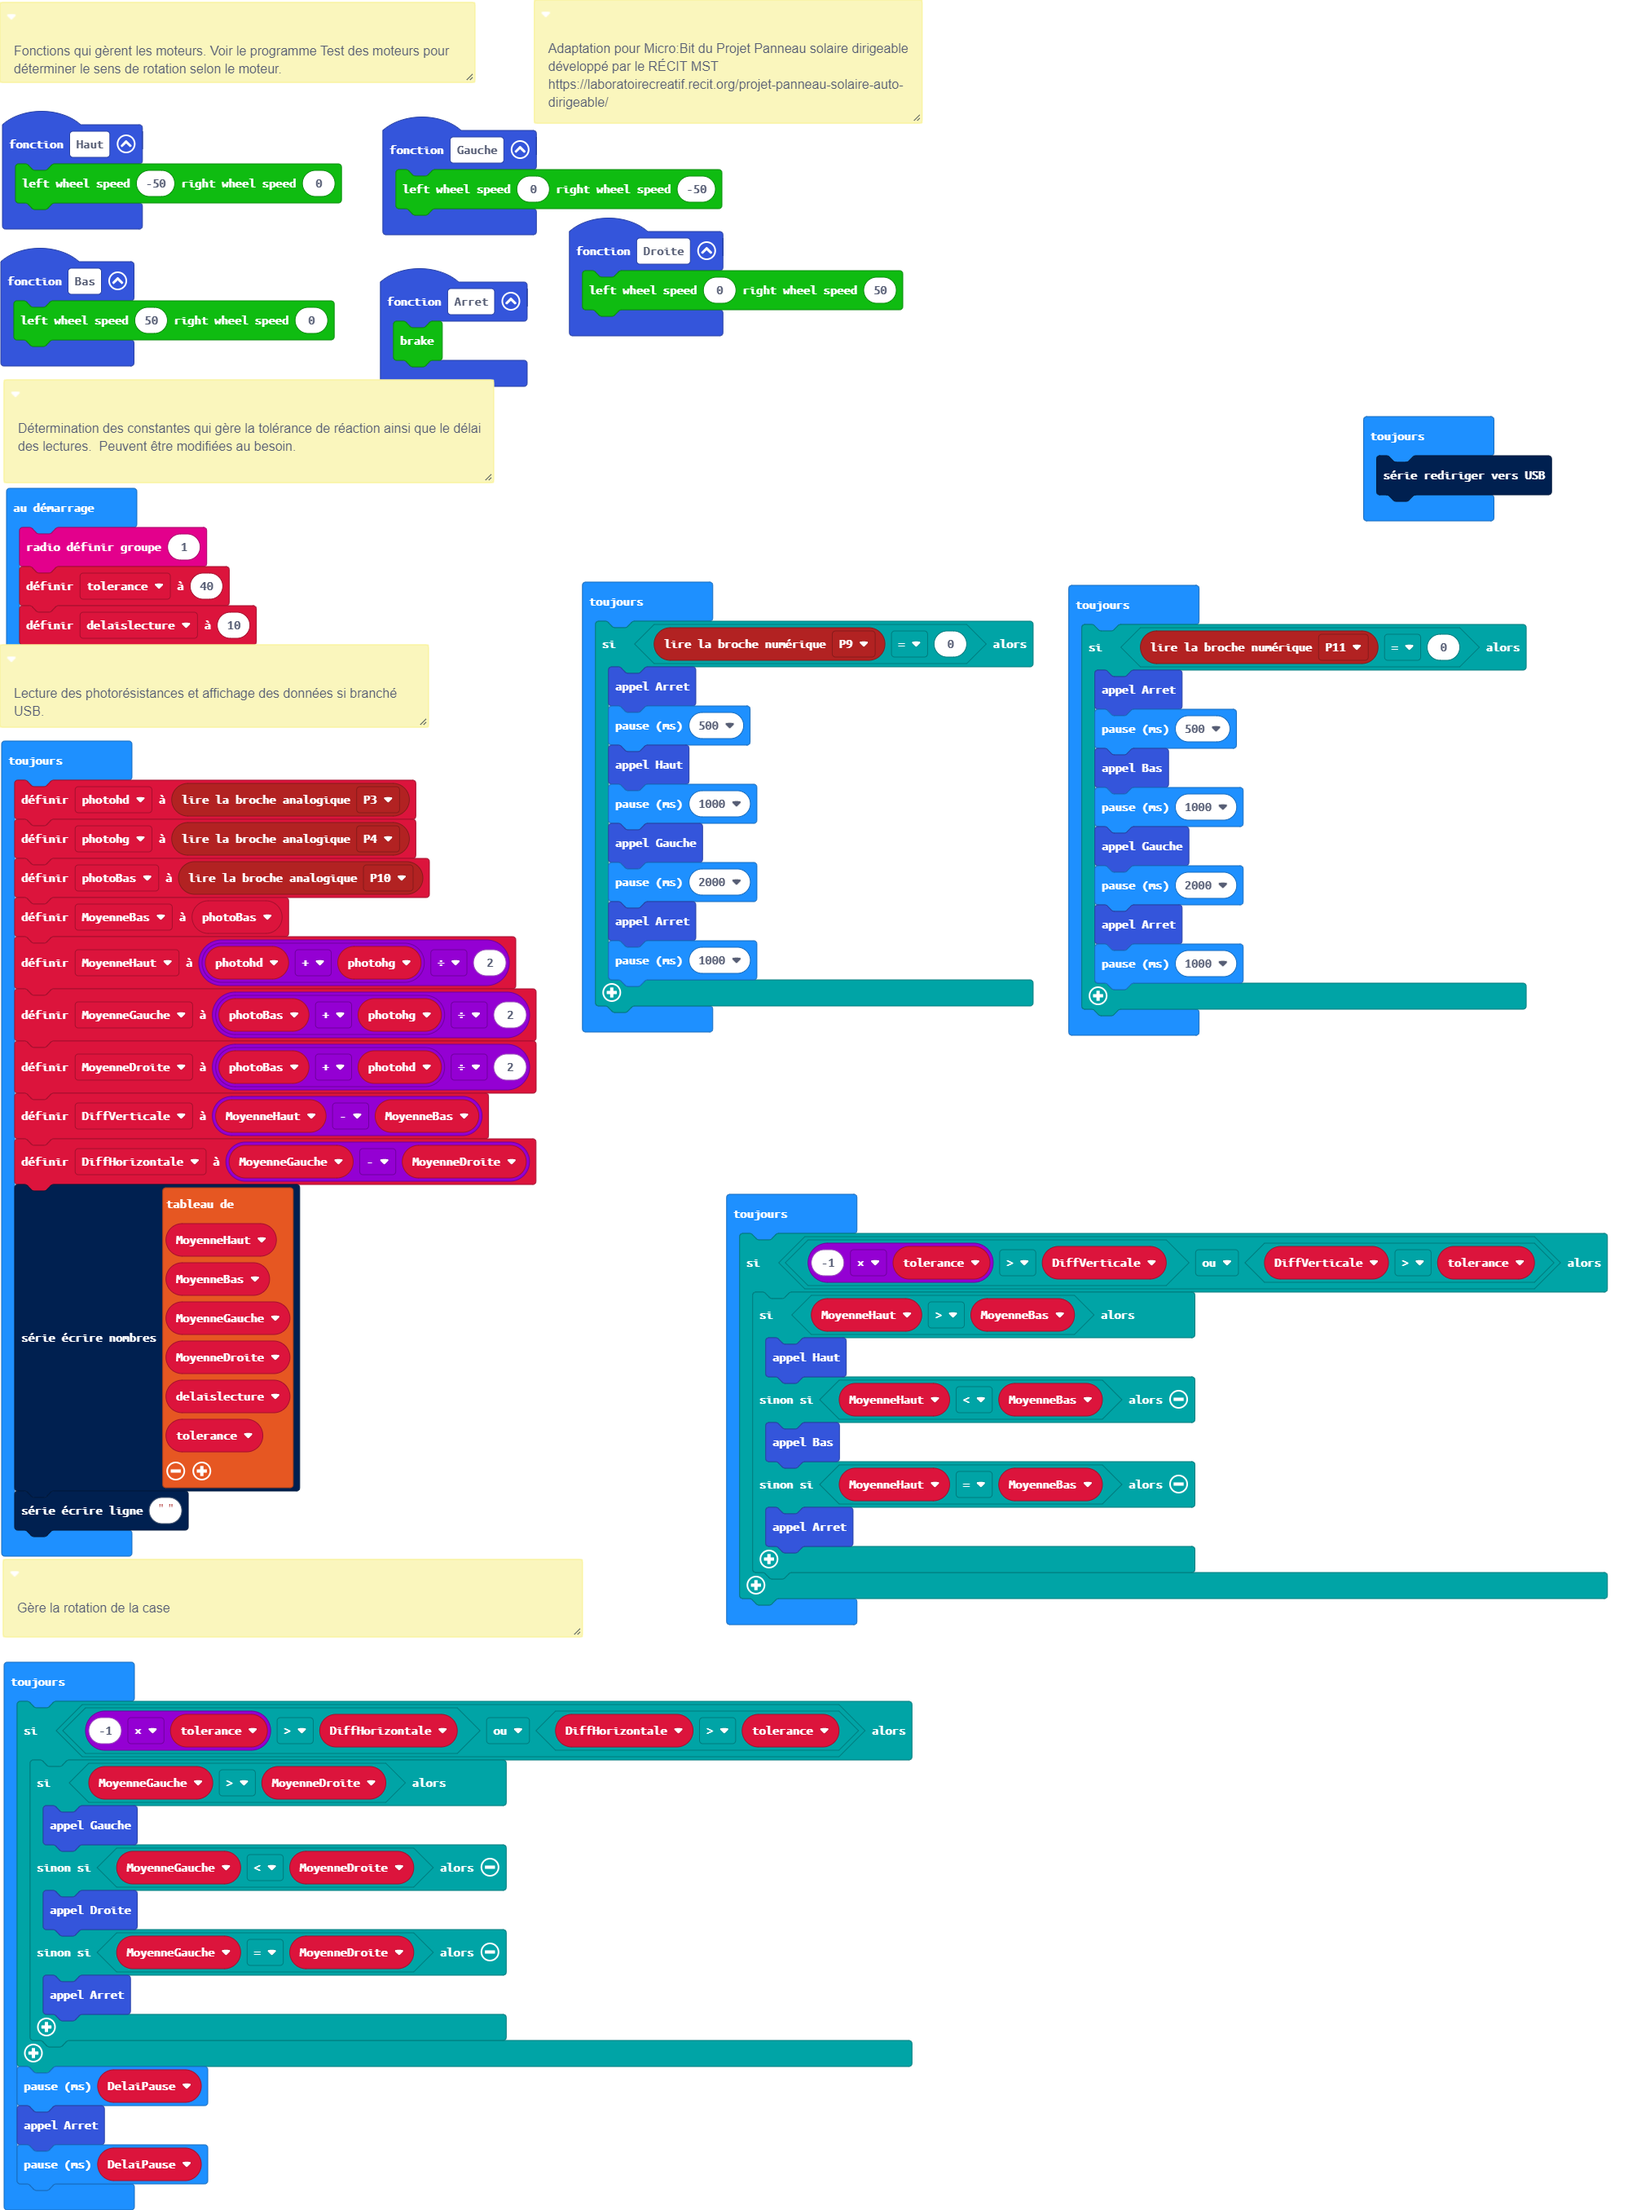
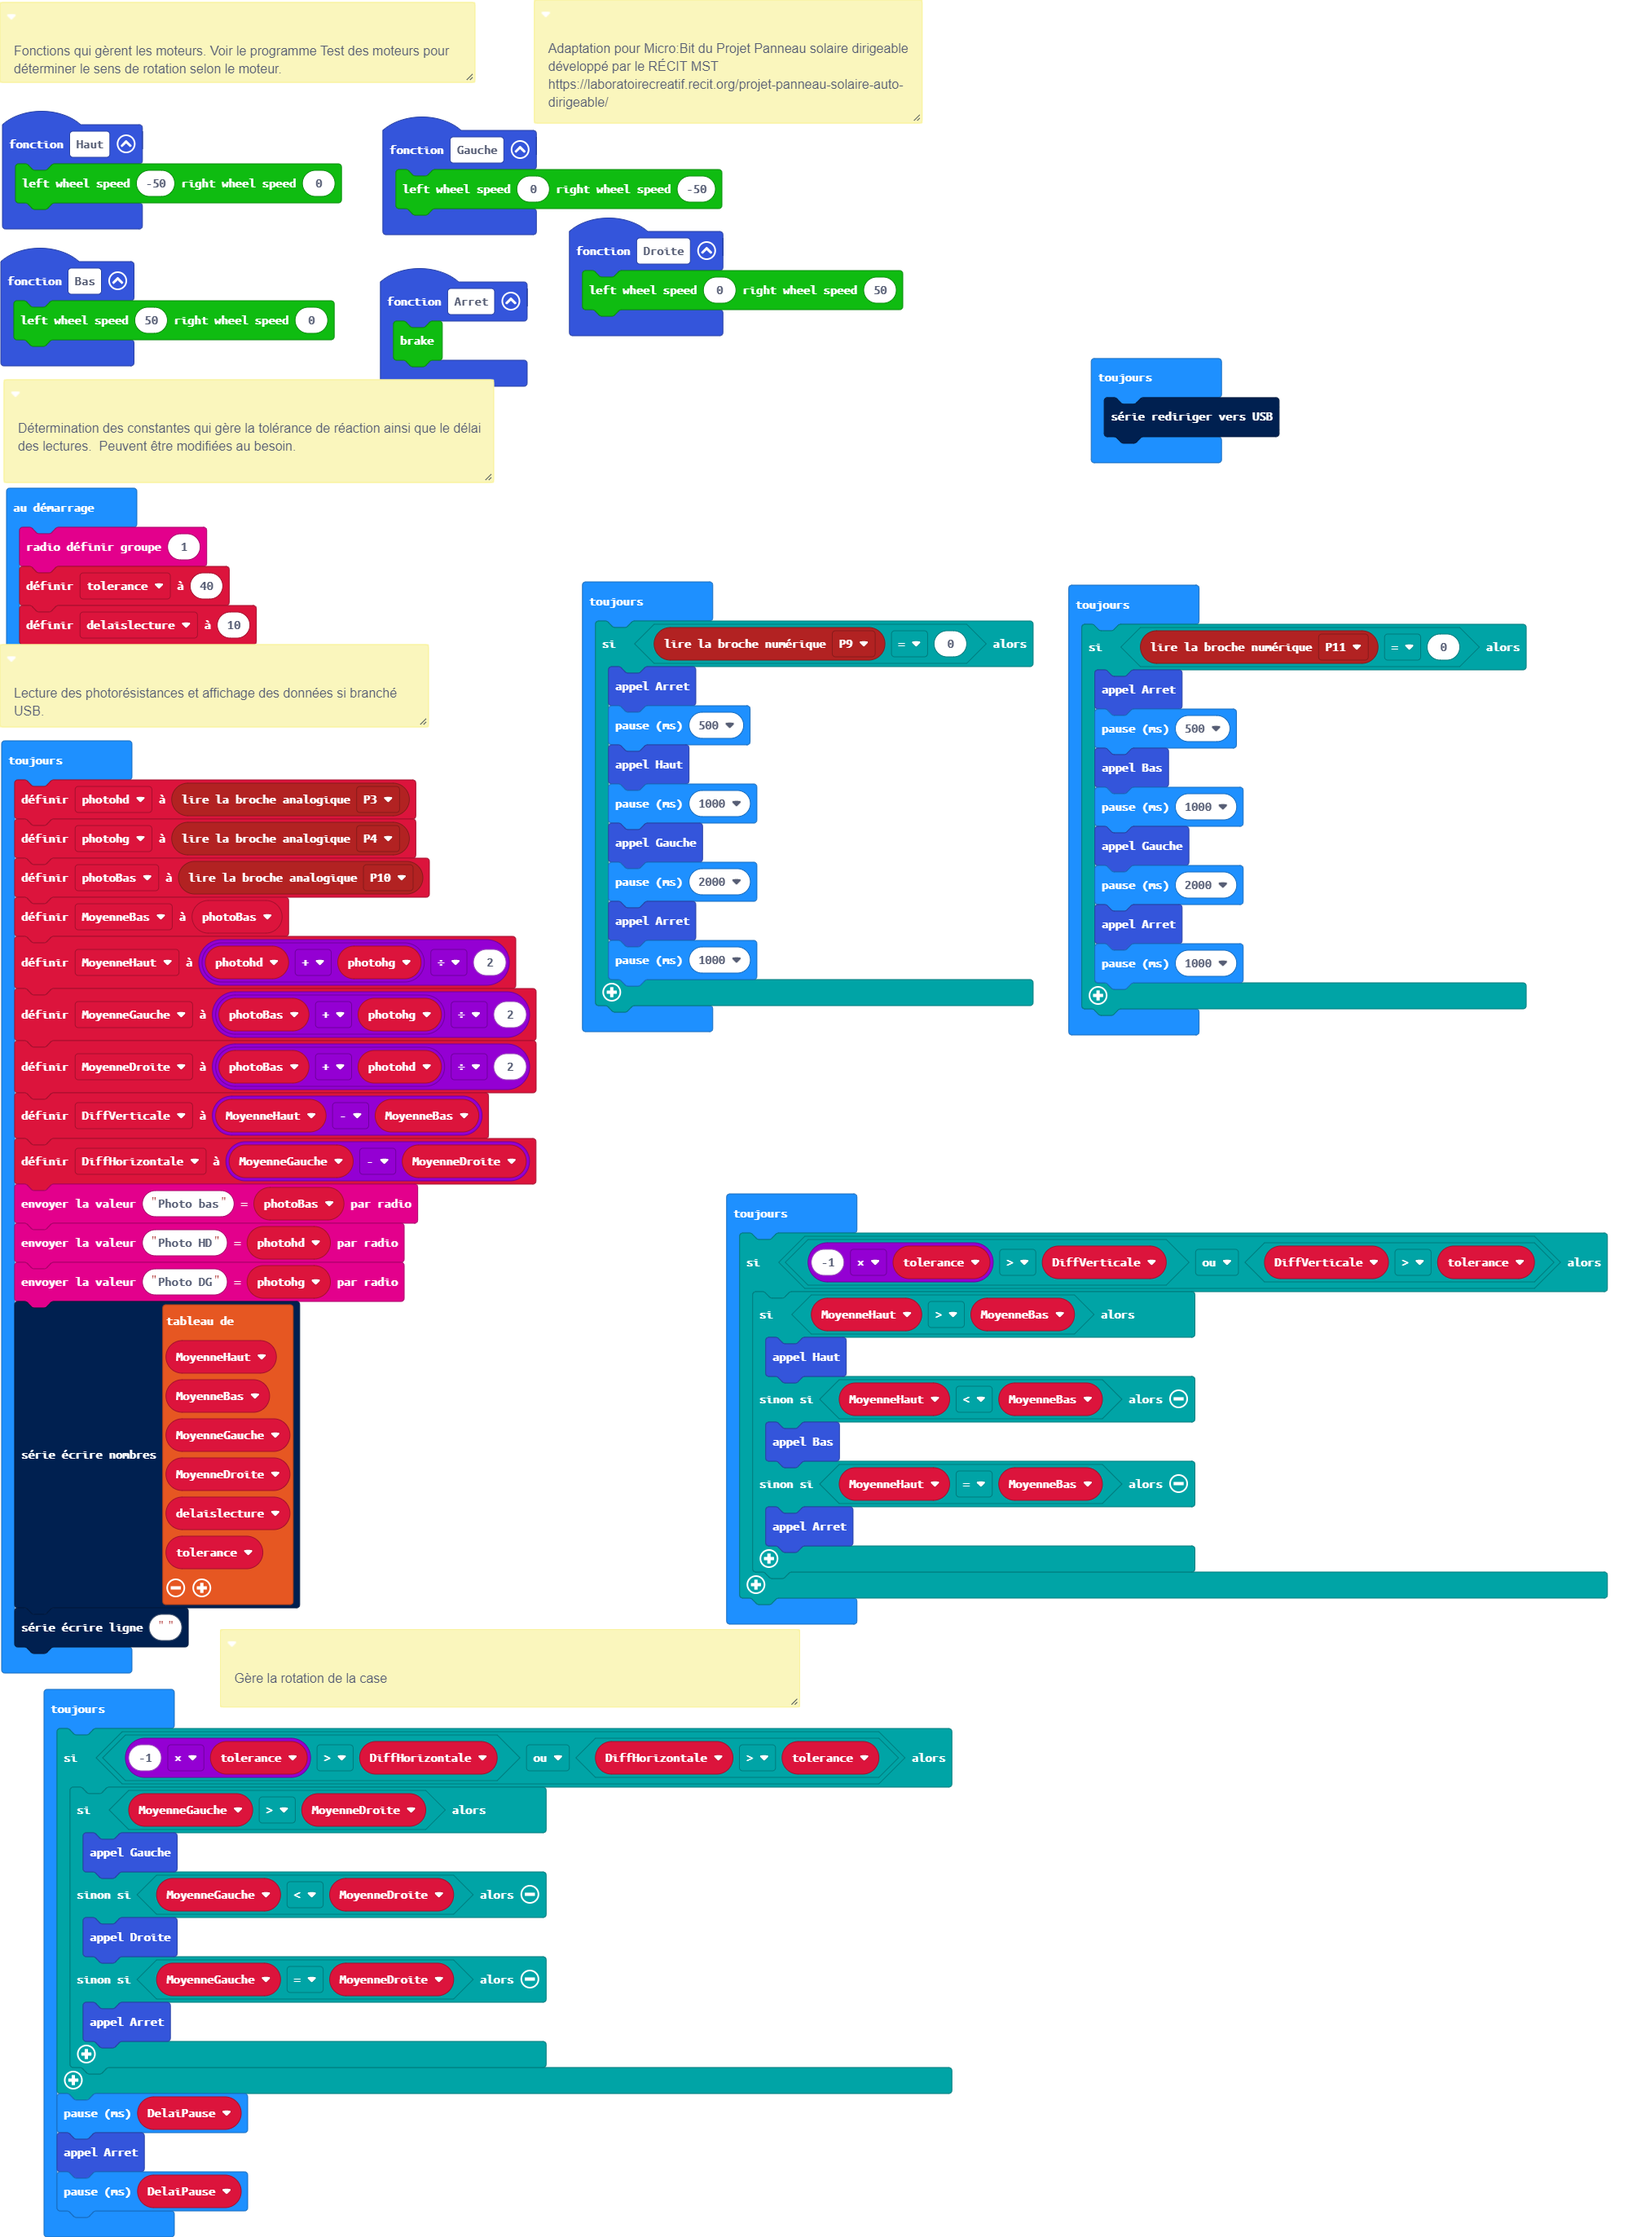
ajout radio

diff --git a/main.ts b/main.ts
@@ -66,9 +66,6 @@ basic.forever(function () {
         basic.pause(1000)
     }
 })
-/**
- * Gère la rotation de la case
- */
 basic.forever(function () {
     photohd = pins.analogReadPin(AnalogPin.P3)
     photohg = pins.analogReadPin(AnalogPin.P4)
@@ -79,6 +76,9 @@ basic.forever(function () {
     MoyenneDroite = (photoBas + photohd) / 2
     DiffVerticale = MoyenneHaut - MoyenneBas
     DiffHorizontale = MoyenneGauche - MoyenneDroite
+    radio.sendValue("Photo bas", photoBas)
+    radio.sendValue("Photo HD", photohd)
+    radio.sendValue("Photo DG", photohg)
     serial.writeNumbers([MoyenneHaut, MoyenneBas, MoyenneGauche, MoyenneDroite, delaislecture, tolerance])
     serial.writeLine("")
 })
@@ -93,6 +93,9 @@ basic.forever(function () {
         }
     }
 })
+/**
+ * Gère la rotation de la case
+ */
 basic.forever(function () {
     let DelaiPause = 0
     if (-1 * tolerance > DiffHorizontale || DiffHorizontale > tolerance) {
